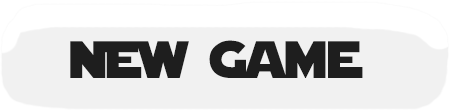
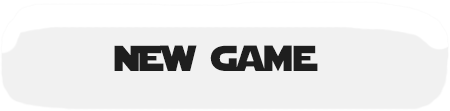
Added updated menu buttons. Changed bg clear color to black

Changed region(s): [[0.4667, 0.3514, 0.8089, 0.7027], [0.1556, 0.3514, 0.4356, 0.7027]]

diff --git a/get_rect/core/src/se/chalmers/get_rect/adapters/libGDX/LibGDXGraphicsAdapter.java b/get_rect/core/src/se/chalmers/get_rect/adapters/libGDX/LibGDXGraphicsAdapter.java
@@ -88,7 +88,7 @@ public class LibGDXGraphicsAdapter implements IGraphicsAdapter {
      */
     @Override
     public void clear() {
-        graphics.glClearColor(1, 0, 0, 1);
+        graphics.glClearColor(0, 0, 0, 1);
         graphics.glClear(GL20.GL_COLOR_BUFFER_BIT | GL20.GL_DEPTH_BUFFER_BIT);
     }
 
